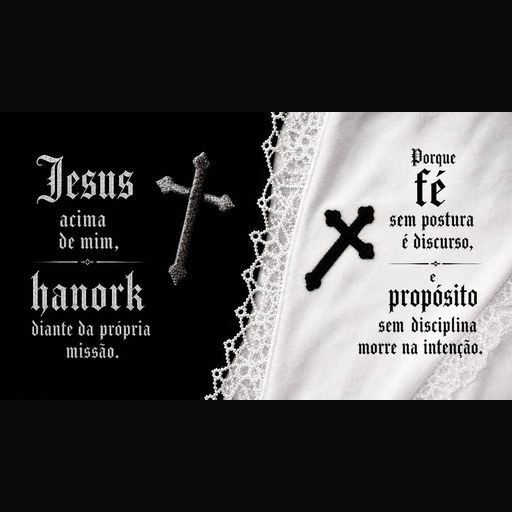
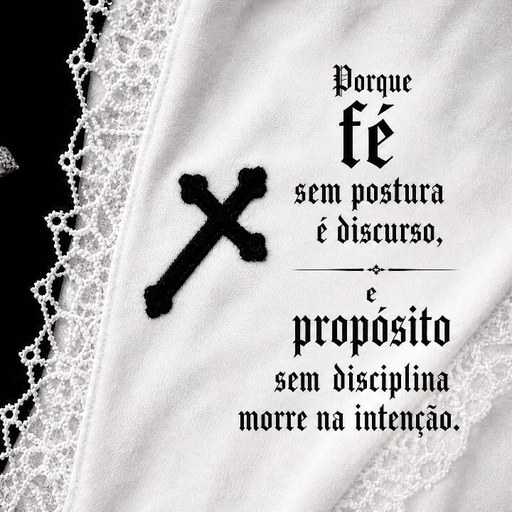
Fix portfolio card photos: distinct crops and full-width display.
Each card now uses a different Hanork menu crop instead of the same 88px thumbnail, with square hero images spanning the card top like the D.K.C reference.

diff --git a/index.html b/index.html
@@ -347,17 +347,37 @@ main {
 
 .cards-grid .dkc-card {
   margin-bottom: 0;
-  padding: 16px 12px 14px;
+  padding: 0 0 14px;
   min-height: 100%;
   display: flex;
   flex-direction: column;
-  align-items: center;
+  align-items: stretch;
+  overflow: hidden;
 }
 
-.cards-grid .card-avatar {
-  width: 88px;
-  height: 88px;
-  margin-bottom: 12px;
+.cards-grid .card-body {
+  padding: 0 12px;
+  display: flex;
+  flex-direction: column;
+  align-items: center;
+  flex: 1;
+  text-align: center;
+}
+
+.card-photo {
+  width: 100%;
+  aspect-ratio: 1 / 1;
+  margin: 0 0 12px;
+  overflow: hidden;
+  background: #0a0a0a;
+  border-bottom: 1px solid var(--border);
+}
+
+.card-photo .avatar-img {
+  width: 100%;
+  height: 100%;
+  object-fit: cover;
+  object-position: center;
 }
 
 .cards-grid .card-name {
@@ -697,8 +717,8 @@ main {
 @media (min-width: 768px) {
   :root { --max: 820px; --grid-gap: 14px; }
   .gate-desc { font-size: 0.72rem; }
-  .cards-grid .dkc-card { padding: 18px 14px 16px; }
-  .cards-grid .card-avatar { width: 100px; height: 100px; }
+  .cards-grid .dkc-card { padding: 0 0 16px; }
+  .cards-grid .card-body { padding: 0 14px; }
   .cards-grid .card-name { font-size: 0.95rem; }
   .cards-grid .btn-card { font-size: 0.66rem; padding: 13px 10px; }
 }
@@ -723,7 +743,7 @@ main {
       <div class="logo-box" aria-hidden="true">
         <div class="logo-glow"></div>
         <div class="logo-mark">
-          <img src="/assets/images/logo-hanork.jpg" alt="Hanork" class="avatar-img" width="84" height="84">
+          <img src="/assets/images/logo-hanork.jpg?v=9" alt="Hanork" class="avatar-img" width="84" height="84">
         </div>
       </div>
       <h1 class="gate-title">HANORK</h1>
@@ -748,7 +768,7 @@ main {
       <div class="topbar-inner">
         <a href="#top" class="brand">
           <span class="brand-icon">
-            <img src="/assets/images/logo-hanork.jpg" alt="" class="avatar-img" width="32" height="32">
+            <img src="/assets/images/logo-hanork.jpg?v=9" alt="" class="avatar-img" width="32" height="32">
           </span>
           <span class="brand-text">HANORK</span>
         </a>
@@ -774,9 +794,10 @@ main {
 
         <div class="cards-grid">
           <article class="dkc-card">
-            <div class="card-avatar hanork">
-              <img src="/assets/images/card-hanork.jpg" alt="Hanork Bot" class="avatar-img" loading="lazy" width="88" height="88">
+            <div class="card-photo">
+              <img src="/assets/images/card-hanork.jpg?v=9" alt="Hanork Bot" class="avatar-img" loading="lazy" width="512" height="512">
             </div>
+            <div class="card-body">
             <h3 class="card-name">HANORK BOT <span class="tag">#FLAGSHIP</span></h3>
             <p class="card-status">PROJETO ATIVO</p>
             <p class="card-desc">Vendas Telegram · PIX · entrega digital · Dual WA</p>
@@ -784,12 +805,14 @@ main {
               <svg width="14" height="14" viewBox="0 0 24 24" fill="none" stroke="currentColor" stroke-width="2" aria-hidden="true"><path d="M21 15a2 2 0 01-2 2H7l-4 4V5a2 2 0 012-2h14a2 2 0 012 2z"/></svg>
               FALAR COM BOT
             </a>
+            </div>
           </article>
 
           <article class="dkc-card">
-            <div class="card-avatar div">
-              <img src="/assets/images/card-div.jpg" alt="Hanork Div" class="avatar-img" loading="lazy" width="88" height="88">
+            <div class="card-photo">
+              <img src="/assets/images/card-div.jpg?v=9" alt="Hanork Div" class="avatar-img" loading="lazy" width="512" height="512">
             </div>
+            <div class="card-body">
             <h3 class="card-name">HANORK DIV <span class="tag">#SAAS</span></h3>
             <p class="card-status is-private">REPOSITÓRIO PRIVADO</p>
             <p class="card-desc">White-label WA · worker · campanhas A/B/C</p>
@@ -797,12 +820,14 @@ main {
               <svg width="14" height="14" viewBox="0 0 24 24" fill="none" stroke="currentColor" stroke-width="2" aria-hidden="true"><rect x="3" y="11" width="18" height="11" rx="2"/><path d="M7 11V7a5 5 0 0110 0v4"/></svg>
               CÓDIGO PRIVADO
             </span>
+            </div>
           </article>
 
           <article class="dkc-card">
-            <div class="card-avatar wa">
-              <img src="/assets/images/card-wa.jpg" alt="WhatsApp" class="avatar-img" loading="lazy" width="88" height="88">
+            <div class="card-photo">
+              <img src="/assets/images/card-wa.jpg?v=9" alt="WhatsApp" class="avatar-img" loading="lazy" width="512" height="512">
             </div>
+            <div class="card-body">
             <h3 class="card-name">WHATSAPP <span class="tag">#DIRECT</span></h3>
             <p class="card-status">DISPONÍVEL</p>
             <p class="card-desc">+55 13 99693-2716</p>
@@ -810,12 +835,14 @@ main {
               <svg width="14" height="14" viewBox="0 0 24 24" fill="none" stroke="currentColor" stroke-width="2" aria-hidden="true"><path d="M21 15a2 2 0 01-2 2H7l-4 4V5a2 2 0 012-2h14a2 2 0 012 2z"/></svg>
               FALAR NO ZAP
             </a>
+            </div>
           </article>
 
           <article class="dkc-card">
-            <div class="card-avatar ig">
-              <img src="/assets/images/card-ig.jpg" alt="Instagram" class="avatar-img" loading="lazy" width="88" height="88">
+            <div class="card-photo">
+              <img src="/assets/images/card-ig.jpg?v=9" alt="Instagram" class="avatar-img" loading="lazy" width="512" height="512">
             </div>
+            <div class="card-body">
             <h3 class="card-name">INSTAGRAM <span class="tag">#@q_zeroxx</span></h3>
             <p class="card-status">SOCIAL ATIVO</p>
             <p class="card-desc">Bastidores e updates</p>
@@ -823,12 +850,14 @@ main {
               <svg width="14" height="14" viewBox="0 0 24 24" fill="none" stroke="currentColor" stroke-width="2" aria-hidden="true"><path d="M21 15a2 2 0 01-2 2H7l-4 4V5a2 2 0 012-2h14a2 2 0 012 2z"/></svg>
               SEGUIR INSTA
             </a>
+            </div>
           </article>
 
           <article class="dkc-card">
-            <div class="card-avatar gh">
-              <img src="/assets/images/card-gh.jpg" alt="GitHub" class="avatar-img" loading="lazy" width="88" height="88">
+            <div class="card-photo">
+              <img src="/assets/images/card-gh.jpg?v=9" alt="GitHub" class="avatar-img" loading="lazy" width="512" height="512">
             </div>
+            <div class="card-body">
             <h3 class="card-name">GITHUB <span class="tag">#HATS444</span></h3>
             <p class="card-status is-private">REPOS PRIVADOS</p>
             <p class="card-desc">Perfil público · Hanork privado</p>
@@ -836,6 +865,7 @@ main {
               <svg width="14" height="14" viewBox="0 0 24 24" fill="none" stroke="currentColor" stroke-width="2" aria-hidden="true"><path d="M21 15a2 2 0 01-2 2H7l-4 4V5a2 2 0 012-2h14a2 2 0 012 2z"/></svg>
               VER PERFIL
             </a>
+            </div>
           </article>
         </div>
       </section>
@@ -888,6 +918,6 @@ main {
     <source src="/assets/audio/fml.mp3" type="audio/mpeg">
   </audio>
 
-  <script src="/js/main.js?v=8"></script>
+  <script src="/js/main.js?v=9"></script>
 </body>
 </html>

diff --git a/scripts/make-card-images.py b/scripts/make-card-images.py
@@ -5,27 +5,50 @@ SRC = Path(r'c:\Users\boots\Downloads\hanork\assets\images')
 OUT = Path(r'c:\Users\boots\Downloads\Hats444.github.io\assets\images')
 OUT.mkdir(parents=True, exist_ok=True)
 
-mapping = {
-    'card-hanork.jpg': 'home.jpg',
-    'card-div.jpg': 'telegram.jpg',
-    'card-wa.jpg': 'support.jpg',
-    'card-ig.jpg': 'instagram.jpg',
-    'card-gh.jpg': 'wallet.jpg',
+SIZE = 512
+MENU = SRC / 'home.jpg'
+BANNER = SRC / '.jpg'
+
+
+def load_rgb(path: Path) -> Image.Image:
+    return Image.open(path).convert('RGB')
+
+
+def crop_square(im: Image.Image, left: int = 0, top: int = 0) -> Image.Image:
+    w, h = im.size
+    side = min(w, h)
+    left = max(0, min(left, w - side))
+    top = max(0, min(top, h - side))
+    box = (left, top, left + side, top + side)
+    return im.crop(box).resize((SIZE, SIZE), Image.Resampling.LANCZOS)
+
+
+def center_square(im: Image.Image) -> Image.Image:
+    w, h = im.size
+    side = min(w, h)
+    left = (w - side) // 2
+    top = (h - side) // 2
+    return crop_square(im, left, top)
+
+
+menu = load_rgb(MENU)
+banner = load_rgb(BANNER)
+mw, mh = menu.size
+side = min(mw, mh)
+
+# Cada card = recorte diferente das artes reais do Hanork (não a mesma thumb 5x).
+jobs = {
+    'card-hanork.jpg': center_square(banner),
+    'card-div.jpg': crop_square(menu, 0, 0),
+    'card-wa.jpg': crop_square(menu, (mw - side) // 2, 0),
+    'card-ig.jpg': crop_square(menu, mw - side, 0),
+    'card-gh.jpg': crop_square(banner, 0, 0),
 }
 
-SIZE = 512
+for name, img in jobs.items():
+    img.save(OUT / name, 'JPEG', quality=88, optimize=True)
+    print(f'{name} OK ({img.size[0]}x{img.size[1]})')
 
-for out_name, src_name in mapping.items():
-    im = Image.open(SRC / src_name).convert('RGB')
-    w, h = im.size
-    scale = min(SIZE / w, SIZE / h)
-    nw, nh = int(w * scale), int(h * scale)
-    im = im.resize((nw, nh), Image.Resampling.LANCZOS)
-    canvas = Image.new('RGB', (SIZE, SIZE), (10, 10, 10))
-    canvas.paste(im, ((SIZE - nw) // 2, (SIZE - nh) // 2))
-    canvas.save(OUT / out_name, 'JPEG', quality=88, optimize=True)
-    print(f'{out_name} OK ({w}x{h} -> {SIZE}x{SIZE})')
-
-thumb = Image.open(OUT / 'card-hanork.jpg')
-thumb.resize((128, 128), Image.Resampling.LANCZOS).save(OUT / 'logo-hanork.jpg', 'JPEG', quality=88)
+logo = Image.open(OUT / 'card-hanork.jpg')
+logo.resize((128, 128), Image.Resampling.LANCZOS).save(OUT / 'logo-hanork.jpg', 'JPEG', quality=88)
 print('logo-hanork.jpg OK')
